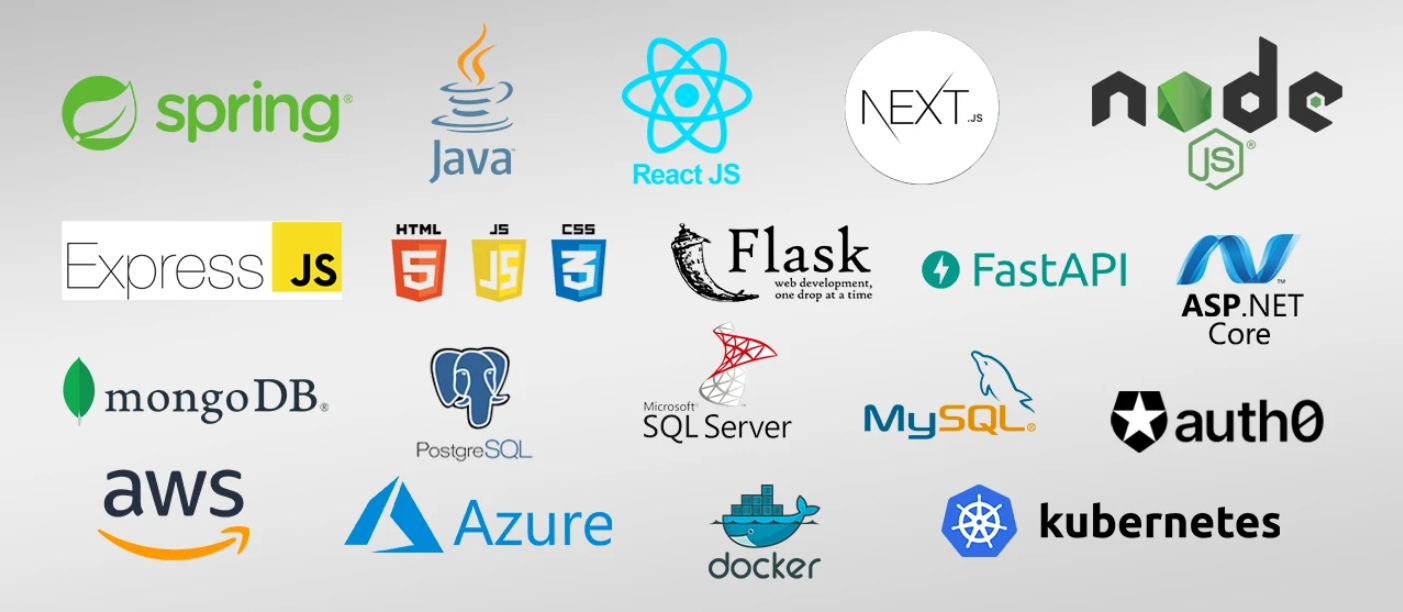
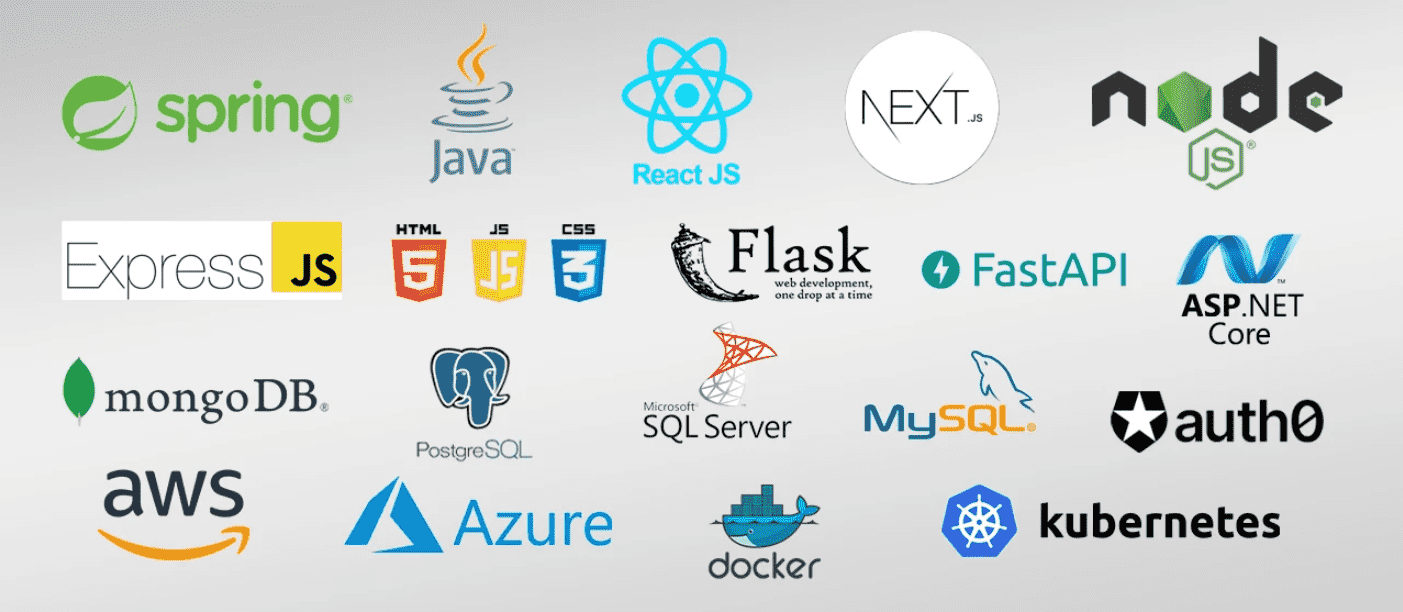
compress image and add loader

diff --git a/index.html b/index.html
@@ -13,93 +13,10 @@
     />
 
     <title>Portfolio website complete</title>
-    <style>
-      
-
-      .animated-text {
-        font-size: 34px;
-        font-weight: 600;
-        min-width: 280px;
-      }
-
-      .animated-text span {
-        position: relative;
-      }
-
-      .animated-text span::before {
-        content: "MERN DEVELOPER";
-        color: #ff7f50;
-        animation: words 20s infinite;
-      }
-
-      .animated-text span::after {
-        content: "";
-        position: absolute;
-        width: calc(100% + 8px);
-        height: 100%;
-        background-color: #fff;
-        border-left: 2px solid #ff7f50;
-        right: -8px;
-        animation: cursor .8s infinite, typing 20s steps(14) infinite;
-      }
-
-      @keyframes cursor {
-        to {
-          border-left: 2px solid #e8e1df00;
-        }
-      }
-
-      @keyframes words {
-        0%,
-        20% {
-          content: "JAVA DEVELOPER";
-        }
-        21%,
-        40% {
-          content: "FRONTEND DESIGNER";
-        }
-        41%,
-        60% {
-          content: "MERN DEVELOPER";
-        }
-        61%,
-        80% {
-          content: "DEV-OPS ENGINEER ";
-        }
-        81%,
-        100% {
-          content: "APP DEVELOPER";
-        }
-      }
-
-      @keyframes typing {
-        10%,
-        15%,
-        30%,
-        35%,
-        50%,
-        55%,
-        70%,
-        75%,
-        90%,
-        95% {
-          width: 0;
-        }
-        5%,
-        20%,
-        25%,
-        40%,
-        45%,
-        60%,
-        65%,
-        80%,
-        85% {
-          width: calc(100% + 8px);
-        }
-      }
-    </style>
+  
   </head>
   <body>
+    <div class="loader"></div>
     <!--===== HEADER =====-->
     <header class="l-header">
       <nav class="nav bd-grid">
@@ -138,7 +55,7 @@
       <section class="home bd-grid" id="home">
         <div class="home__data">
           <h1 class="home__title">
-            Hi,<br />I'am <span class="home__title-color">Rishikesh</span><br />
+            Hi,<br />I'am <span class="home__title-color">Rishi</span><br />
           </h1>
           <div class="animated-text"  style="margin: 0px 0px 15px 0px;">
             <span></span>
@@ -194,7 +111,7 @@
               <path
                 d="M9.19024 145.964C34.0253 76.5814 114.865 54.7299 184.111 29.4823C245.804 6.98884 311.86 -14.9503 370.735 14.143C431.207 44.026 467.948 107.508 477.191 174.311C485.897 237.229 454.931 294.377 416.506 344.954C373.74 401.245 326.068 462.801 255.442 466.189C179.416 469.835 111.552 422.137 65.1576 361.805C17.4835 299.81 -17.1617 219.583 9.19024 145.964Z"
               />
-              <image
+              <image 
                 class="home__blob-img"
                 x="40"
                 y="110"

diff --git a/styles.css b/styles.css
@@ -484,3 +484,105 @@ img {
     width: 450px;
   }
 }
+/*------------*/
+
+.animated-text {
+  font-size: 34px;
+  font-weight: 600;
+  min-width: 280px;
+}
+
+.animated-text span {
+  position: relative;
+}
+
+.animated-text span::before {
+  content: "MERN DEVELOPER";
+  color: #ff7f50;
+  animation: words 20s infinite;
+}
+
+.animated-text span::after {
+  content: "";
+  position: absolute;
+  width: calc(100% + 8px);
+  height: 100%;
+  background-color: #fff;
+  border-left: 2px solid #ff7f50;
+  right: -8px;
+  animation: cursor .8s infinite, typing 20s steps(14) infinite;
+}
+
+@keyframes cursor {
+  to {
+    border-left: 2px solid #e8e1df00;
+  }
+}
+
+@keyframes words {
+  0%,
+  20% {
+    content: "JAVA DEVELOPER";
+  }
+  21%,
+  40% {
+    content: "FRONTEND DESIGNER";
+  }
+  41%,
+  60% {
+    content: "MERN DEVELOPER";
+  }
+  61%,
+  80% {
+    content: "DEV-OPS ENGINEER ";
+  }
+  81%,
+  100% {
+    content: "APP DEVELOPER";
+  }
+}
+
+@keyframes typing {
+  10%,
+  15%,
+  30%,
+  35%,
+  50%,
+  55%,
+  70%,
+  75%,
+  90%,
+  95% {
+    width: 0;
+  }
+  5%,
+  20%,
+  25%,
+  40%,
+  45%,
+  60%,
+  65%,
+  80%,
+  85% {
+    width: calc(100% + 8px);
+  }
+}
+.loader {
+  border: 4px solid rgba(0, 0, 0, 0.2);
+  border-top: 4px solid #3498db;
+  border-radius: 50%;
+  width: 40px;
+  height: 40px;
+  animation: spin 1s linear infinite;
+  position: fixed;
+  top: 50%;
+  left: 50%;
+  transform: translate(-50%, -50%);
+  z-index: 9999;
+  display: none; /* Hide initially */
+}
+
+@keyframes spin {
+  0% { transform: rotate(0deg); }
+  100% { transform: rotate(360deg); }
+}

diff --git a/main.js b/main.js
@@ -81,3 +81,26 @@ sr.reveal('.home__data, .about__img, .skills__subtitle, .skills__text',{});
 sr.reveal('.home__img, .about__subtitle, .about__text, .skills__img',{delay: 400}); 
 sr.reveal('.home__social-icon',{ interval: 200}); 
 sr.reveal('.skills__data, .work__img, .contact__input',{interval: 200}); 
+ ////loader
+ document.addEventListener("DOMContentLoaded", function() {
+    const images = document.querySelectorAll("img");
+    const loader = document.querySelector(".loader");
+  
+    let loadedCount = 0;
+  
+    function imageLoaded() {
+      loadedCount++;
+      if (loadedCount === images.length) {
+        loader.style.display = "none";
+      }
+    }
+  
+    images.forEach(function(image) {
+      if (image.complete) {
+        imageLoaded();
+      } else {
+        image.addEventListener("load", imageLoaded);
+      }
+    });
+  });
+  
